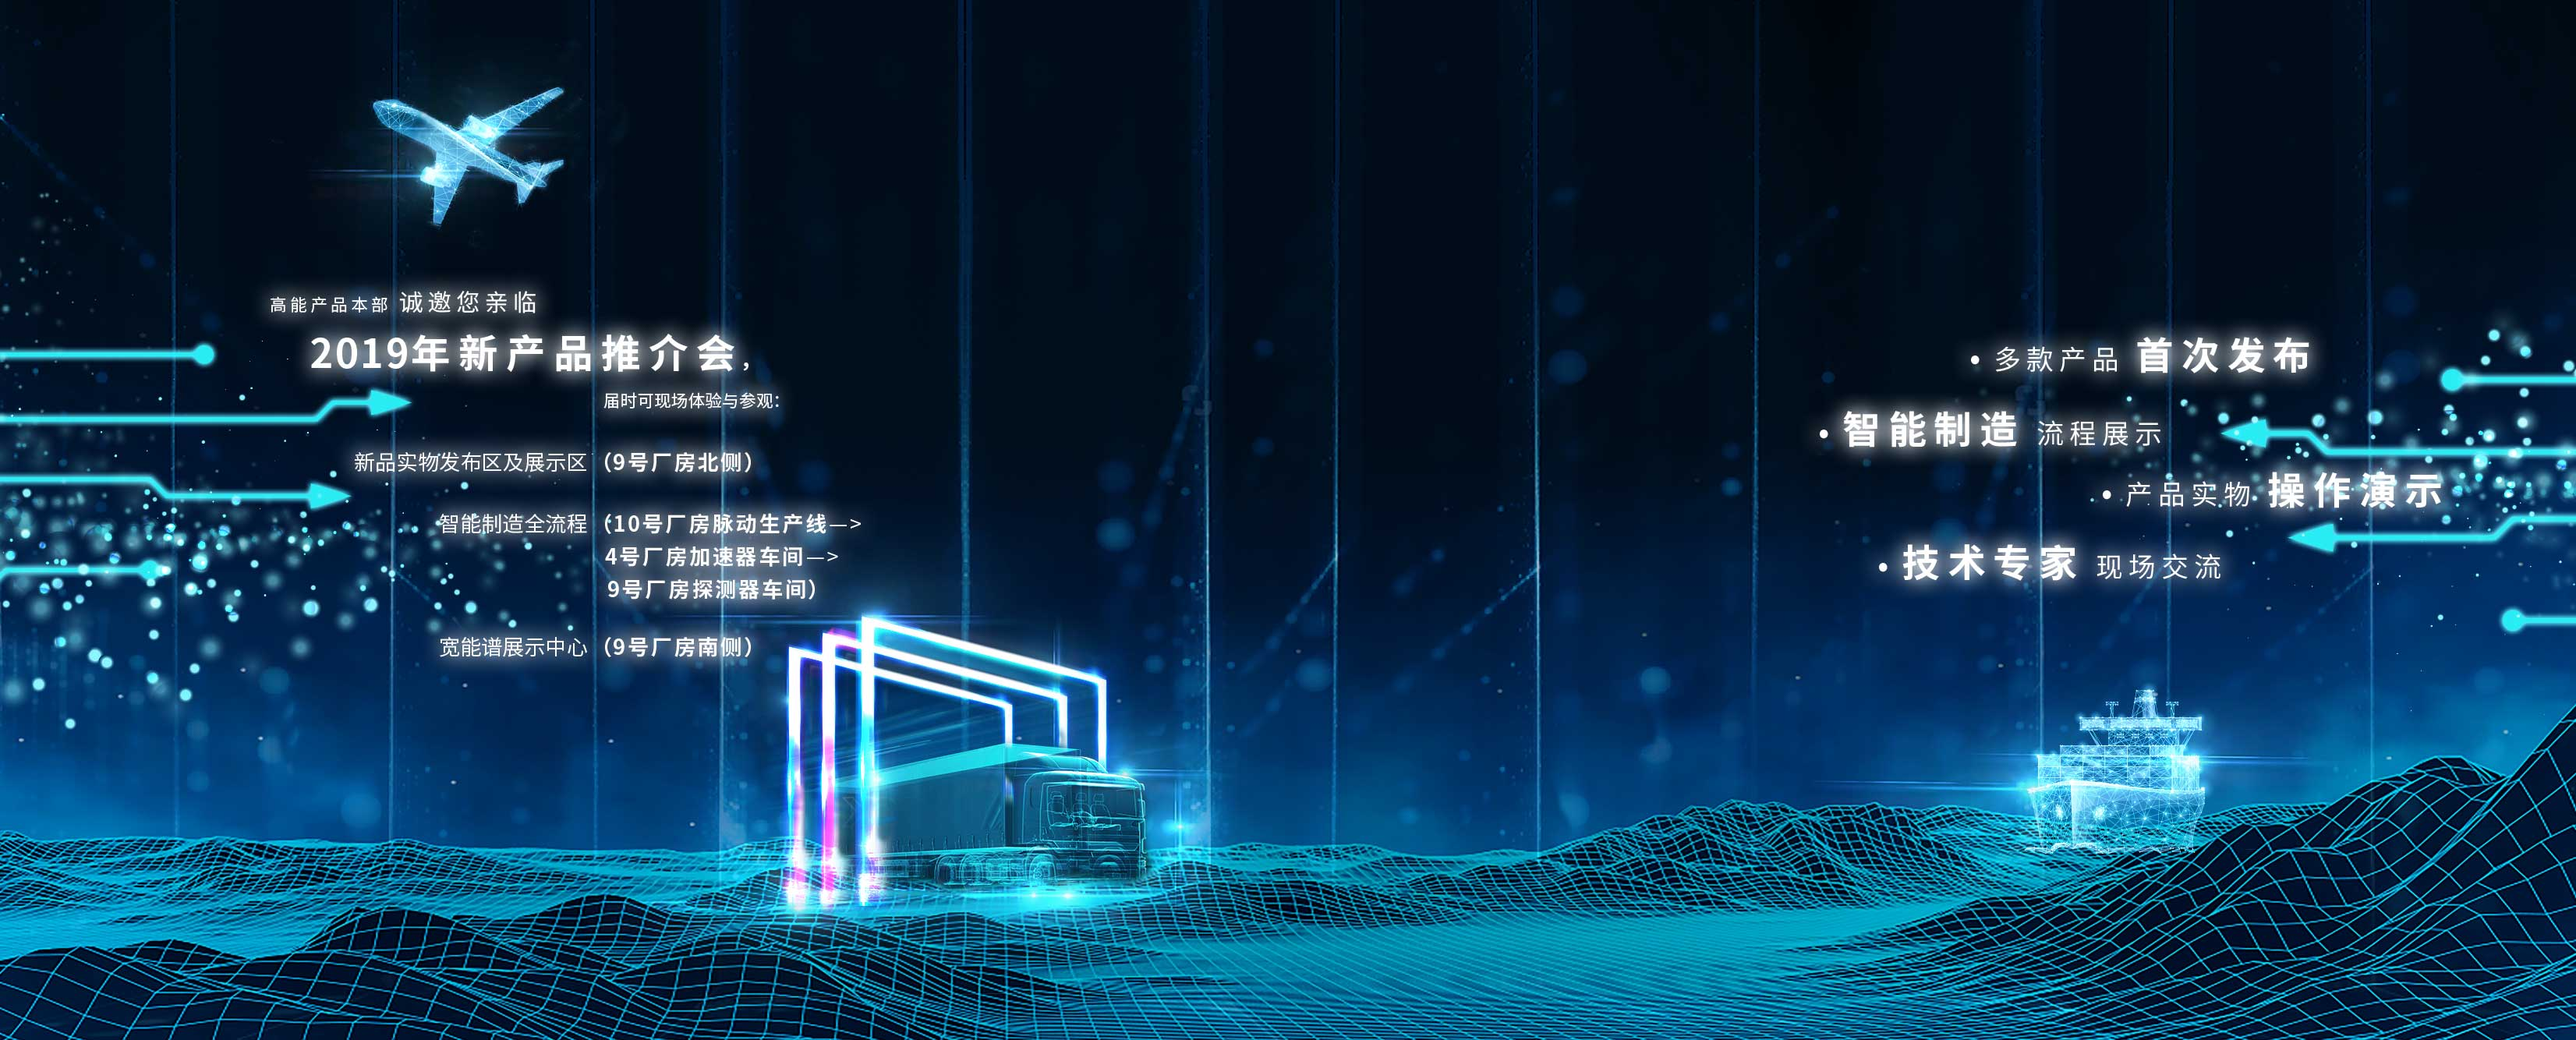
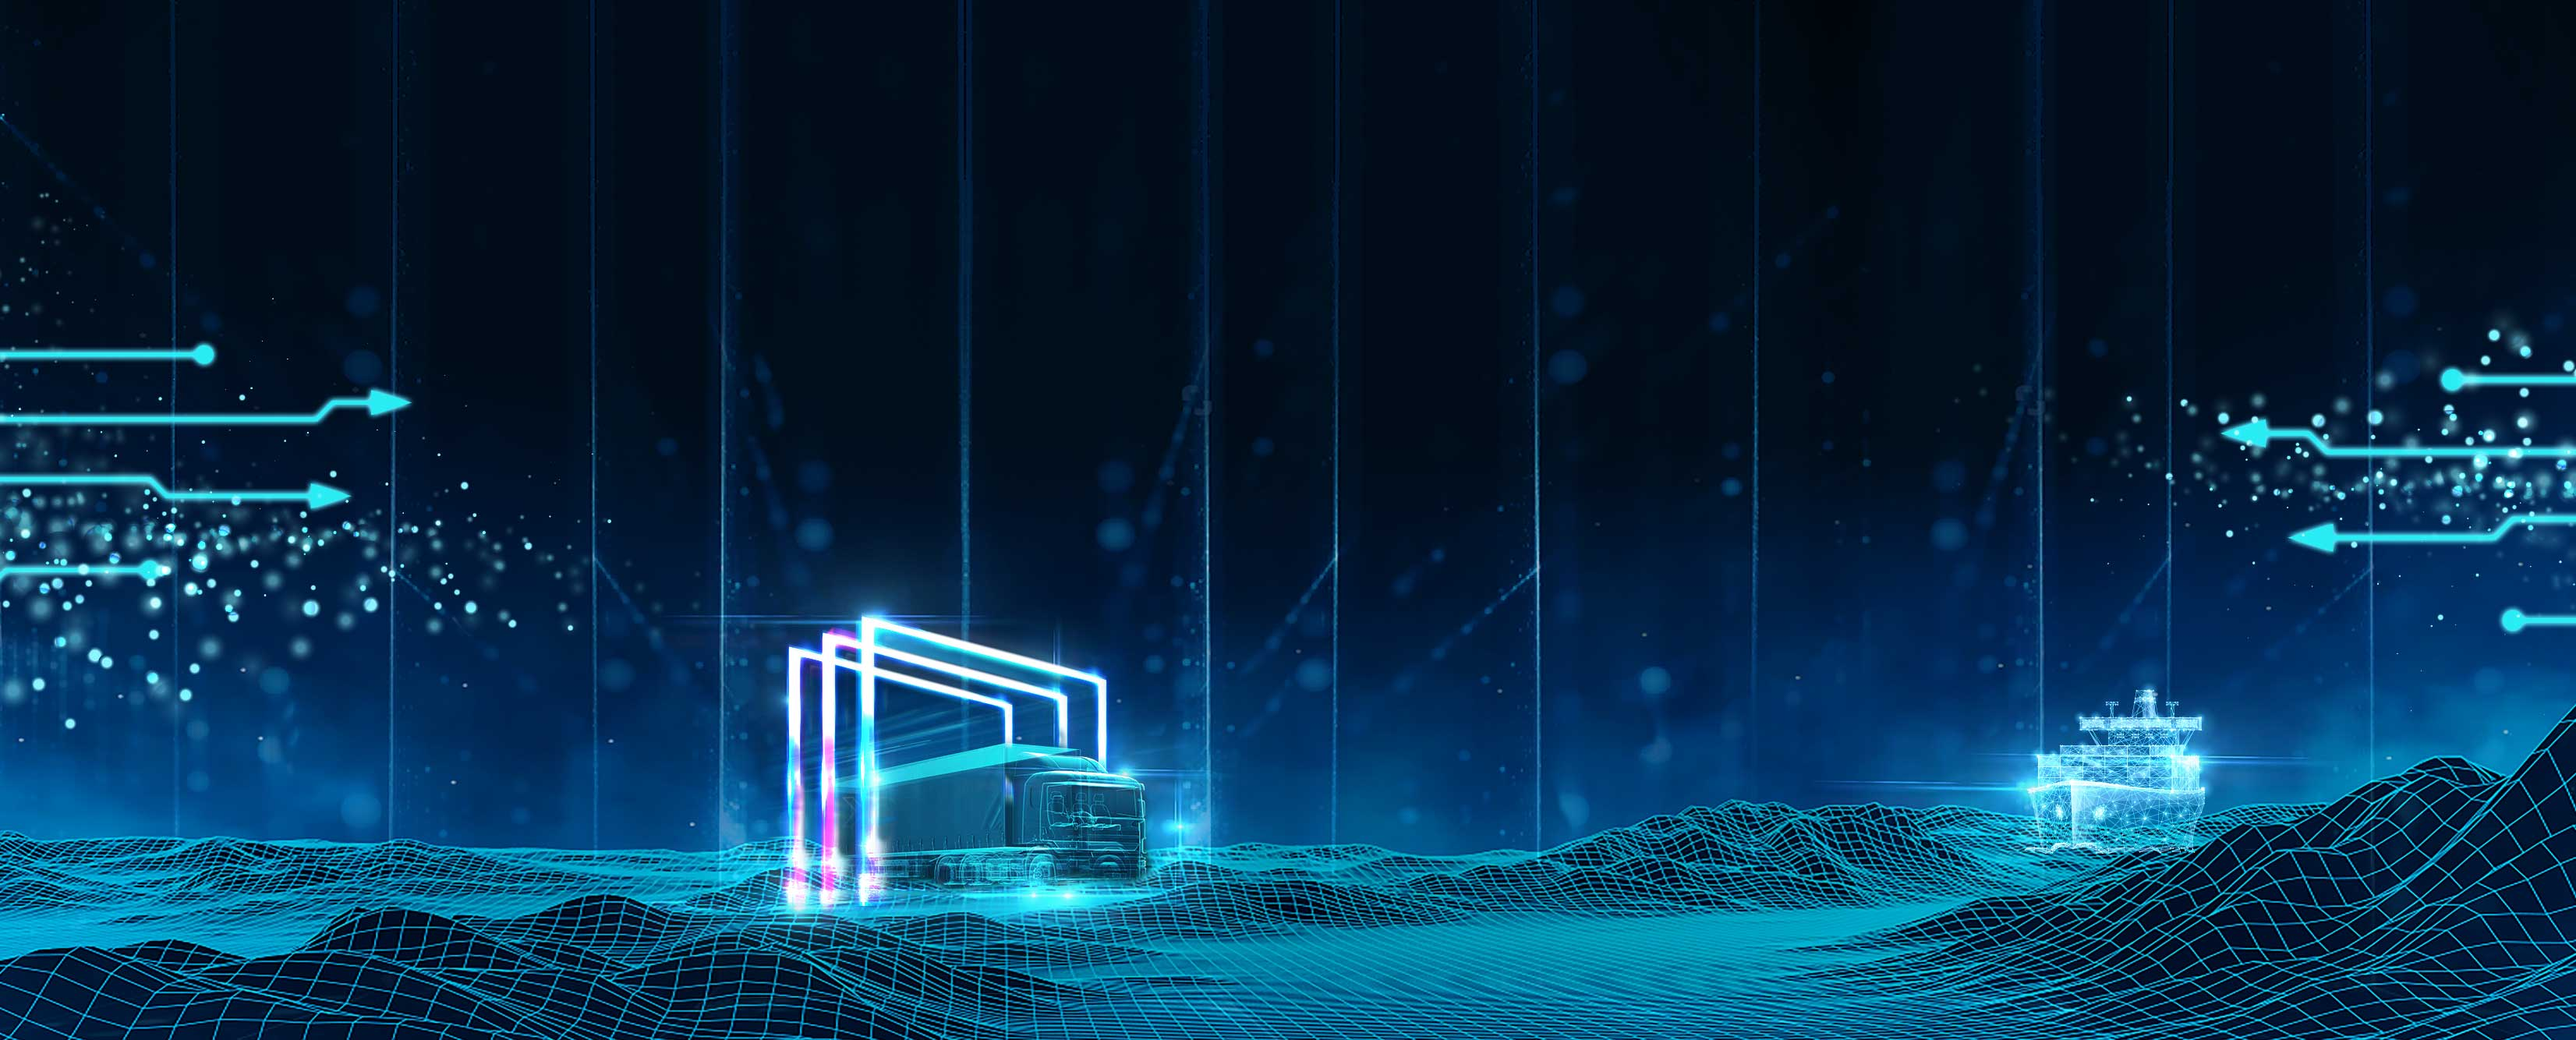
fix1

diff --git a/src/main/webapp/page/css/style.css b/src/main/webapp/page/css/style.css
@@ -115,7 +115,7 @@
   border-radius: 4px;
   display: flex;
   justify-content: center;
-   align-items: center;
+  align-items: center;
 }
 @keyframes spin {
   0% {
@@ -414,9 +414,37 @@ input[type="radio"]:checked::before{
     position: absolute;
     height: 8rem !important;
     top: 10rem;
-    left: 41%;
+    left: 44.5%;
     animation: bounceInLeft 2s ease;
 }
+.feiji {
+    position: absolute;
+    left: 6rem;
+    top: 3rem;
+    width: 9rem;
+    height: auto !important;
+    
+}
+.feijixg {
+  animation-name: oDiv;
+    animation-delay: 0.5s;/*延迟时间*/
+    /*循环次数*/
+    /*animation-iteration-count: 2;*/
+    animation-duration: 3s;
+    /*反向播放动画*/
+    /*animation-direction: reverse;*/
+}
+
+/*飞机飞入效果*/
+@-webkit-keyframes oDiv{
+  0%{left: 180px;top: -200px;opacity: 0;}
+  100%{left: 200px;top: 50px;opacity: 1;}
+}
+@keyframes oDiv{
+  0%{left: 180px;top: -200px;opacity: 0;}
+  2100%{left: 200px;top: 50px;opacity: 1;}
+}
+
 @-webkit-keyframes rockit {
   from {
     -webkit-transform: translatey(30px) rotate(50deg);
@@ -439,6 +467,177 @@ input[type="radio"]:checked::before{
   }
 }
 
+/*文字淡入*/
+.fade-in-words-box, .fade-in-words-right-box {
+  display: none;
+}
+.fade-in-words{
+    margin: 0 auto;
+    text-align: right;
+    position: absolute;
+    left: 6rem;
+    top: 12rem;
+    width: 27rem;
+    color: #fff;
+    text-shadow: 0 0 0.2em #FFF, 0 0 1em #FFF;
+    letter-spacing: 0.3rem;
+    line-height: 1.5rem;
+}
+.fade-in-words-right {
+    margin: 0 auto;
+    text-align: right;
+    position: absolute;
+    right: 6rem;
+    top: 14rem;
+    width: 15rem;
+    color: #fff;
+    text-shadow: 0 0 0.2em #FFF, 0 0 1em #FFF;
+    letter-spacing: 0.3rem;
+    line-height: 2.5rem;
+}
+.fade-in-words-right .first-words {
+  text-align: center;
+  margin-left: -5rem;
+}
+.fade-in-words-right .second-words{
+  margin-left: -13rem;
+  margin-top: -0.5rem;
+}
+.fade-in-words-right .four-words{
+  text-align: left;
+}
+/*自定义一个透明度从0到1的动画，它的名称是fade-in*/
+@keyframes fade-in{  
+    0%{ opacity: 0;}
+    100%{opacity:1;}
+}
+@-webkit-keyframes fade-in{
+    0%{ opacity: 0;}
+    100%{opacity:1;}
+}
+@-ms-keyframes fade-in{
+    0%{ opacity: 0;}
+    100%{opacity:1;}
+}
+@-o-keyframes fade-in{
+    0%{ opacity: 0;}
+    100%{opacity:1;}
+}
+@-moz-keyframes fade-in{
+    0%{ opacity: 0;}
+    100%{opacity:1;}
+}
+.first-words{ 
+    margin-left: 2rem;
+    text-align: left;
+    opacity: 0;      /*实先规定文字的状态是不显示的*/
+    animation: fade-in 4s ease 0s 1;    /*调用名称为fade-in的动画，全程动画显示时间4S，进入方式为ease，延时0S进入，播放次数1次*/
+    -webkit-animation: fade-in 4s ease 0s 1;
+    -moz-animation: fade-in 4s ease 0s 1;
+    -o-animation: fade-in 4s ease 0s 1;
+    -ms-animation: fade-in 4s ease 0s 1;
+    
+    /*规定动画的最后状态为结束状态*/
+    animation-fill-mode:forwards;
+    -webkit-animation-fill-mode: forwards;  
+      -o-animation-fill-mode: forwards; 
+      -ms-animation-fill-mode: forwards;   
+      -moz-animation-fill-mode: forwards; 
+}
+.second-words{ 
+    text-align: center;
+    opacity: 0;    
+    animation: fade-in 4s ease 2s 1;
+    -webkit-animation: fade-in 4s ease 2s 1;
+    -moz-animation: fade-in 4s ease 2s 1;
+    -o-animation: fade-in 4s ease 2s 1;
+    -ms-animation: fade-in 4s ease 2s 1;
+    
+    /*规定动画的最后状态为结束状态*/
+    animation-fill-mode:forwards;
+    -webkit-animation-fill-mode: forwards;  
+      -o-animation-fill-mode: forwards; 
+      -ms-animation-fill-mode: forwards;   
+      -moz-animation-fill-mode: forwards; 
+}
+.third-words{ 
+    opacity: 0;    
+    animation: fade-in 4s ease 4s 1;
+    -webkit-animation: fade-in 4s ease 4s 1;
+    -moz-animation: fade-in 4s ease 4s 1;
+    -o-animation: fade-in 4s ease 4s 1;
+    -ms-animation: fade-in 4s ease 4s 1;
+    
+    /*规定动画的最后状态为结束状态*/
+    animation-fill-mode:forwards;
+    -webkit-animation-fill-mode: forwards;  
+      -o-animation-fill-mode: forwards; 
+      -ms-animation-fill-mode: forwards;   
+      -moz-animation-fill-mode: forwards; 
+}
+.four-words{ 
+    margin-right: -3rem;
+    margin-top: 1rem;
+    opacity: 0;    
+    animation: fade-in 4s ease 6s 1;
+    -webkit-animation: fade-in 4s ease 6s 1;
+    -moz-animation: fade-in 4s ease 6s 1;
+    -o-animation: fade-in 4s ease 6s 1;
+    -ms-animation: fade-in 4s ease 6s 1;
+    
+    /*规定动画的最后状态为结束状态*/
+    animation-fill-mode:forwards;
+    -webkit-animation-fill-mode: forwards;  
+      -o-animation-fill-mode: forwards; 
+      -ms-animation-fill-mode: forwards;   
+      -moz-animation-fill-mode: forwards; 
+}
+.five-words{ 
+    margin-right: -4rem;
+    opacity: 0;    
+    animation: fade-in 4s ease 8s 1;
+    -webkit-animation: fade-in 4s ease 8s 1;
+    -moz-animation: fade-in 4s ease 8s 1;
+    -o-animation: fade-in 4s ease 8s 1;
+    -ms-animation: fade-in 4s ease 8s 1;
+    
+    /*规定动画的最后状态为结束状态*/
+    animation-fill-mode:forwards;
+    -webkit-animation-fill-mode: forwards;  
+      -o-animation-fill-mode: forwards; 
+      -ms-animation-fill-mode: forwards;   
+      -moz-animation-fill-mode: forwards; 
+}
+.six-words{ 
+    opacity: 0;    
+    animation: fade-in 4s ease 10s 1;
+    -webkit-animation: fade-in 4s ease 10s 1;
+    -moz-animation: fade-in 4s ease 10s 1;
+    -o-animation: fade-in 4s ease 10s 1;
+    -ms-animation: fade-in 4s ease 10s 1;
+    
+    /*规定动画的最后状态为结束状态*/
+    animation-fill-mode:forwards;
+    -webkit-animation-fill-mode: forwards;  
+      -o-animation-fill-mode: forwards; 
+      -ms-animation-fill-mode: forwards;   
+      -moz-animation-fill-mode: forwards; 
+}
+
+.big-words{
+  font-size: 1.3rem;
+}
+.bold-words {
+  font-weight: bold;
+}
+.middle-words {
+  font-size: 0.9rem;
+  letter-spacing: 0.1rem;
+}
+.small-words {
+  font-size: 0.2rem;
+}
+
 /*适配iphonex*/
 @media only screen and (device-width:375px) and (device-height:812px) and (-webkit-device-pixel-ratio:3) {
     .shan {
@@ -449,6 +648,24 @@ input[type="radio"]:checked::before{
     }
     .loading-page .counter hr{
       margin-bottom: 0.32rem;
+    }
+    .four-words {
+      margin-top: 3rem;          
+    }
+    .fade-in-words{
+      top: 14rem;
+    }
+   .fade-in-words-right {
+      top: 17.5rem;
+      width: 15rem;
+      margin-right: 3rem;
+    }
+    .fade-in-words-right .four-words {
+          margin-top: 0;
+        margin-left: -2rem;
+    }
+    .wl {
+      left: 43%;
     }
 }
 /*plus*/
@@ -465,6 +682,16 @@ input[type="radio"]:checked::before{
     .wangge{
       bottom: -0.1rem;
     } 
+    .fade-in-words{
+      line-height: 2rem;
+    }
+    .fade-in-words-right {
+      line-height: 3rem;
+    }
+    .fade-in-words-right .second-words {
+        margin-left: -15.5rem;
+        margin-top: 0.5rem;
+    } 
 }
 
 /*iphone 5*/
@@ -478,9 +705,27 @@ input[type="radio"]:checked::before{
    .loading-page {
       height: 120%;
    }
+   .wl {
+    left: 40%;
+   }
+   .view .top .img {
+    margin-left: 1rem !important;
+   }
+   .top .img:first-child {
+      margin-right: 9.5rem !important;
+   }
+   .phone-more {
+      left: 5.5rem;
+   }
+   .fade-in-words {
+      top: 9rem;
+      width: 22rem;
+      line-height: 1.5rem;
+   }
+   .fade-in-words-right {
+        top: 10.5rem;
+   }
 }
-
-
 
 
 

diff --git a/src/main/webapp/page/page2.html b/src/main/webapp/page/page2.html
@@ -55,8 +55,33 @@
 		</div>
 	    <div class="big-bg" >
 	        <img src="./images/page03a.png" alt="" onload="readyFn();">
+	        <img src="./images/page2-feiji.png" class="feiji feijixg">
+	        <!-- 文字淡入 -->
+	        <div class="fade-in-words-box">
+	        	<div class="fade-in-words">
+		            <div class="first-words small-words">高能产品本部 <span class="middlewords middle-words">诚邀您亲临</span></div>
+		            <div class="second-words big-words bold-words">2019年新产品推介会，</div>
+		            <div class="third-words small-words">届时可现场体验与参观：</div>
+		            <div class="four-words middle-words">新产品实物发布区及展示区<span class="">（9号厂房北侧）</span></div>
+		            <div class="five-words middle-words " style="margin-top: 1rem;">职能制造全流程<span class="">（10号厂房脉动生产线 —></span> </div>
+		            <div class="five-words middle-words">4号厂加速器车间 —> </div>
+		            <div class="five-words middle-words">9号厂房探测器车间） </div>
+		            <div class="six-words middle-words">宽能谱展示中心 <span class="">（9号厂房南侧）</span></div>
+		        </div>
+	        </div>
+
+	        <div class="fade-in-words-right-box">
+	        	<div class="fade-in-words-right">
+		            <div class="first-words small-words">多款产品 <span class="middlewords big-words">首次发布</span></div>
+		             <div class="second-words big-words">智能创造 <span class="middlewords small-words">流程展示</span></div>
+		            <div class="third-words small-words">产品实物 <span class="middlewords big-words">操作演示</span></div>
+
+		            <div class="four-words big-words">技术专家 <span class="middlewords small-words">现场交流</span></div>  
+		        </div>
+	        </div>
+	        
 	        <img src="./images/page-wl.png" class="wl">
-	        <p class="wl word" style="top: 18rem">同方威视高能产品本部2019年产品推介会1111</p>
+	        <p class="wl word" style="top: 18rem">同方威视高能产品本部2019年产品推介会</p>
 	    </div>
 	</div>
 
@@ -76,12 +101,13 @@
 	      WIN_H = document.documentElement.clientHeight;
 	  var timefragment = 0,               // 时间片计时
 	      nowts = 0;                      // 当前时间
-	      console.log('WIN_H:', WIN_H, WIN_W)
-	       console.log('IMG_H:', IMG_H, IMG_W)
+
 
 	  // 设置默认的left/top
 	  dom.style.top = -(IMG_H - WIN_H) / 2 + 'px';
 	  dom.style.left = -(IMG_W - WIN_W) / 2 + 'px';
+
+	  // dom.style.left = '0px';
 
 	  //手动滑动
 	  window.addEventListener('touchstart', function(evt) {
@@ -98,6 +124,19 @@
 	          _left = left + (gamma / 90 * 30);
 	          _top = _top >= 0 ? 0 : (_top < (WIN_H - IMG_H) ? (WIN_H - IMG_H) : _top);
 	          _left = _left >= 0 ? 0 : (_left < (WIN_W - IMG_W) ? (WIN_W - IMG_W) : _left);
+	          console.log('left:', _left)
+
+	          if(_left < -30 ) {
+	          	$(".feiji").addClass("feijixg");
+	          	$(".fade-in-words-box").css("display", "block");
+	          } else {
+	          	$(".feiji").removeClass("feijixg");
+	          	// $(".fade-in-words-box").css("display", "none");
+	          }
+	          if(_left > -20) {
+	          	$(".fade-in-words-right-box").css("display", "block");
+	          }
+
 	          dom.style.top = _top + 'px';
 	          dom.style.left = _left + 'px';
 	      }
@@ -124,6 +163,11 @@
 	          _left = left + (gamma / 90 * 30);
 	          _top = _top >= 0 ? 0 : (_top < (WIN_H - IMG_H) ? (WIN_H - IMG_H) : _top);
 	          _left = _left >= 0 ? 0 : (_left < (WIN_W - IMG_W) ? (WIN_W - IMG_W) : _left);
+
+	          if(_left < 30) {
+	          	$(".feiji").addClass("feijixg");
+	          }
+
 	          dom.style.top = _top + 'px';
 	          dom.style.left = _left + 'px';
 	      }

diff --git a/src/main/webapp/page/js/loading.js b/src/main/webapp/page/js/loading.js
@@ -63,12 +63,13 @@ $(function(){
 
   // var i = setInterval(function() {
   //   $(".wangge").css("width", c + "%");
-  //   // c++;
+  //   c++;
+  //   counter++;
   //   if(counter == 60) {
   //    $(".loading-car").attr("src", "images/loading-car.png");
   //   }
   //   $(".loading-page .counter .line").css("width", c + "%");
-  //     if (isLoading) {
+  //     if (counter == 101) {
 
   //       window.location.href='page1.html';
   //       clearInterval(i);
